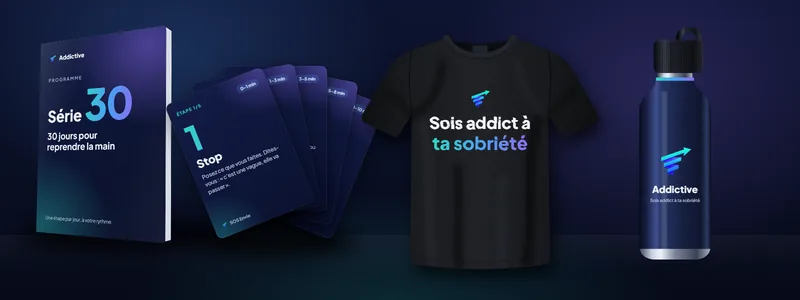
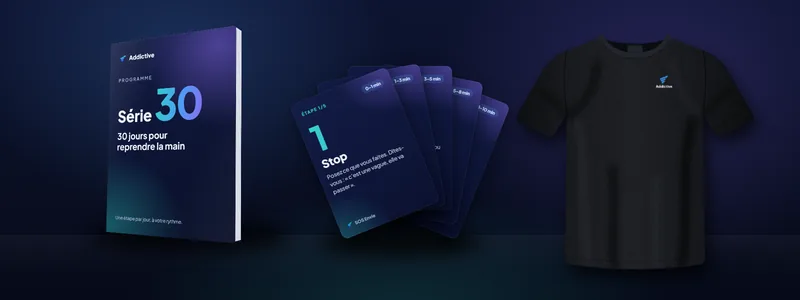
Gourde retirée : le t-shirt brodé est le seul produit physique
- Fiche et visuels de la gourde supprimés ; plus aucune mention sur le site (listes, accueil, FAQ, rayon Produits physiques, sitemap, llms.txt, documentation)
- Article « Reprendre le sport » : produit proposé = t-shirt brodé
- Visuel d'accueil régénéré avec 3 produits, dont le t-shirt brodé du nouveau blason ; générateur de visuels sans gourde

diff --git a/src/data/faq.ts b/src/data/faq.ts
@@ -13,7 +13,7 @@ export const FAQ = [
   },
   {
     question: "Quels sont les délais pour les produits physiques ?",
-    answer: "Les t-shirts et les gourdes sont fabriqués à la demande. Ils sont prévus pour être expédiés sous 3 à 5 jours ouvrés, à titre indicatif. Les délais et les frais de livraison sont à confirmer.",
+    answer: "Le t-shirt est fabriqué à la demande. Il est prévu pour être expédié sous 3 à 5 jours ouvrés, à titre indicatif. Les délais et les frais de livraison sont à confirmer.",
   },
   {
     question: "Puis-je retourner un produit ?",

diff --git a/src/content/articles/reprendre-le-sport.md b/src/content/articles/reprendre-le-sport.md
@@ -6,7 +6,7 @@ category: sport-corps
 date: 2026-11-02
 draft: false
 cover: { src: /articles/reprendre-le-sport.webp, alt: "Illustration de quatre barres qui montent de 15 à 30 minutes : une reprise du sport en 4 semaines" }
-related: gourde-addictive
+related: t-shirt-sois-addict
 ---
 
 Reprendre le sport après des mois, voire des années de pause, peut impressionner. Bonne nouvelle : vous n'avez pas besoin de tout faire d'un coup. La clé, c'est la **progressivité**. Voici comment repartir sur de bonnes bases, sans vous blesser ni vous décourager.

diff --git a/docs/paiement.md b/docs/paiement.md
@@ -22,7 +22,7 @@ Désactivé sur le site public (« La boutique ouvre bientôt »). Deux réglage
 - `CHECKOUT_ENABLED=true` côté Functions (sinon le serveur refuse tout paiement).
 
 Achetables : les guides PDF (`serie-30`, `sos-envie`) et le t-shirt brodé (`t-shirt-sois-addict`, 29 €).
-La gourde n'est pas en vente. Le prix vient toujours de Stripe, jamais du navigateur.
+Le t-shirt brodé est le seul produit physique de la boutique. Le prix vient toujours de Stripe, jamais du navigateur.
 
 ## Panier
 
